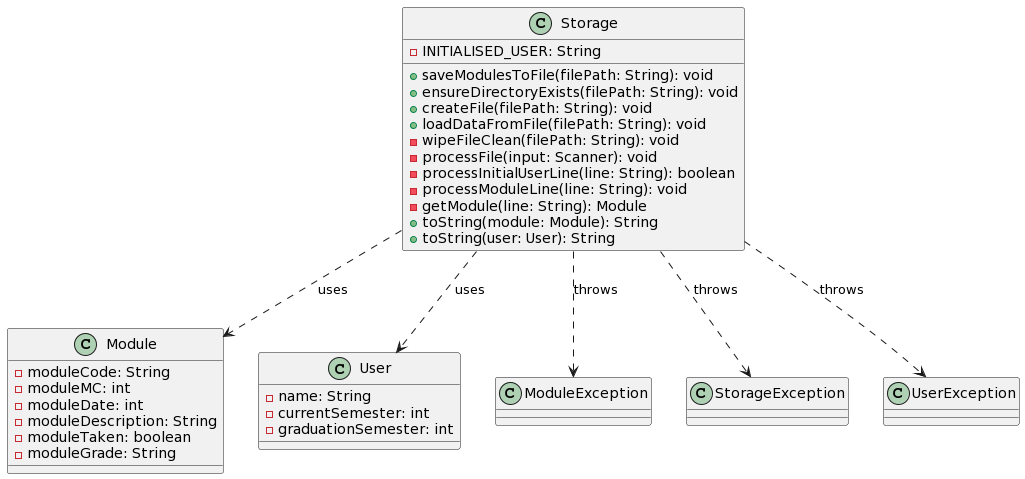
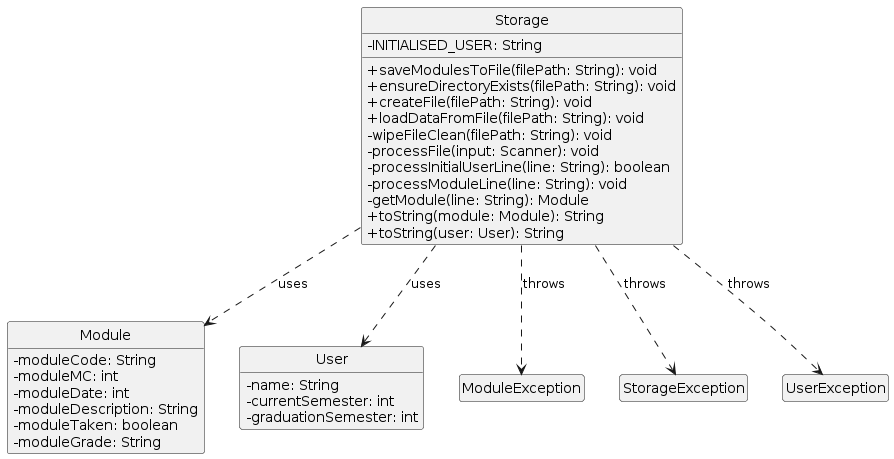
Add Storage Design section

diff --git a/docs/DeveloperGuide.md b/docs/DeveloperGuide.md
@@ -165,7 +165,7 @@ This design allows a separation of concern which separates the purpose of each o
 Below is a class diagram that shows the associations between `Module`, `ModuleList`, and other relevant classes
 
 
-![Module.png](diagrams%2FModuleList.png)
+![Module.png](diagrams/ModuleList.png)
 
 
 The`CommandMetadata` class is an abstract class that manages regular expressions (regex) and validation
@@ -200,6 +200,67 @@ an error message, and return an `Invalid` command instance
 created based on the overwritten method `createCommandInstance` in the respective `CommandMetadata` class
 
 ### Storage
+
+![Storage diagram](diagrams/Storage.png)
+
+**Code** :
+[`Storage.java`](https://github.com/AY2324S2-CS2113-W14-3/tp/blob/master/src/main/java/seedu/duke/storage/Storage.java)
+
+The `Storage` class in the Future Academic Planner (FAP) application is essential for handling the persistence 
+of user and module data. It allows the application to maintain state between sessions by reading from and writing 
+to files.
+
+As of `v2.1`, the `Storage` class is capable of handling several critical functionalities:
+1. **Saving Data**: It serializes the `User` and `ModuleList` objects into a text format and writes this information 
+to a specified file path.
+2. **Loading Data**: It deserializes text data from a specified file path back into `User` and `ModuleList` objects.
+
+### Key Functionalities
+
+#### 1. **Saving User and Module Data**
+- **Method**: `saveModulesToFile(String filePath)`
+- **Description**: This method saves serialized user information and a list of taken modules to a specified file.
+It first checks and, if necessary, creates the directory path provided in the filePath. It then initializes a 
+`BufferedWriter` to write the data efficiently.
+
+#### 2. **Loading User and Module Data**
+- **Method**: `loadDataFromFile(String filePath)`
+- **Description**: This method loads user information and module data from the specified file. If the file does not 
+exist, it creates a new one and returns early to avoid errors. It reads the file line by line, updating the user and 
+module data within the application.
+
+#### 3. **File and Directory Management**
+- **Methods**: `createFile(String filePath)`, `ensureDirectoryExists(String filePath)`
+- **Description**: These methods manage the file system interactions necessary for reading from and writing to files, 
+such as verifying directory existence and creating files as needed to prevent errors during the data load and 
+save processes.
+
+### Usage in Commands
+
+- **SetCommand and ViewCommand**: These commands utilize the `Storage` class to persist changes to the user and 
+modules immediately after modifications, ensuring data integrity and continuity.
+- **Startup and Shutdown**: On startup, `loadDataFromFile` is invoked to initialize the application state, and 
+on shutdown, `saveModulesToFile` is called to save the current state.
+
+### Purpose
+
+The main purpose of the `Storage` class is to abstract the complexities of file management and data serialization away 
+from the core application logic. This simplification allows other parts of the application, such as commands and 
+controllers, to interact with user and module data more efficiently and reliably.
+
+Additionally, by handling data persistence, the `Storage` class ensures that user progress and configurations are not
+lost between application sessions, thereby enhancing user experience and application reliability.
+
+### Interaction with Other Classes
+
+- **Interacts With**:
+    - `User`: To save and load user-specific data like name and current semester.
+    - `ModuleList`: To save and load the list of modules the user has taken.
+    - `FileWriter`/`BufferedWriter`: Used within `saveModulesToFile` to write data to files.
+    - `Scanner`/`FileReader`: Used within `loadDataFromFile` to read data from files.
+
+This robust functionality provided by the `Storage` class is critical for maintaining the long-term usability 
+and flexibility of the FAP application, making it a cornerstone of the application's architecture.
 
 ### Module, Module List, JSON
 
